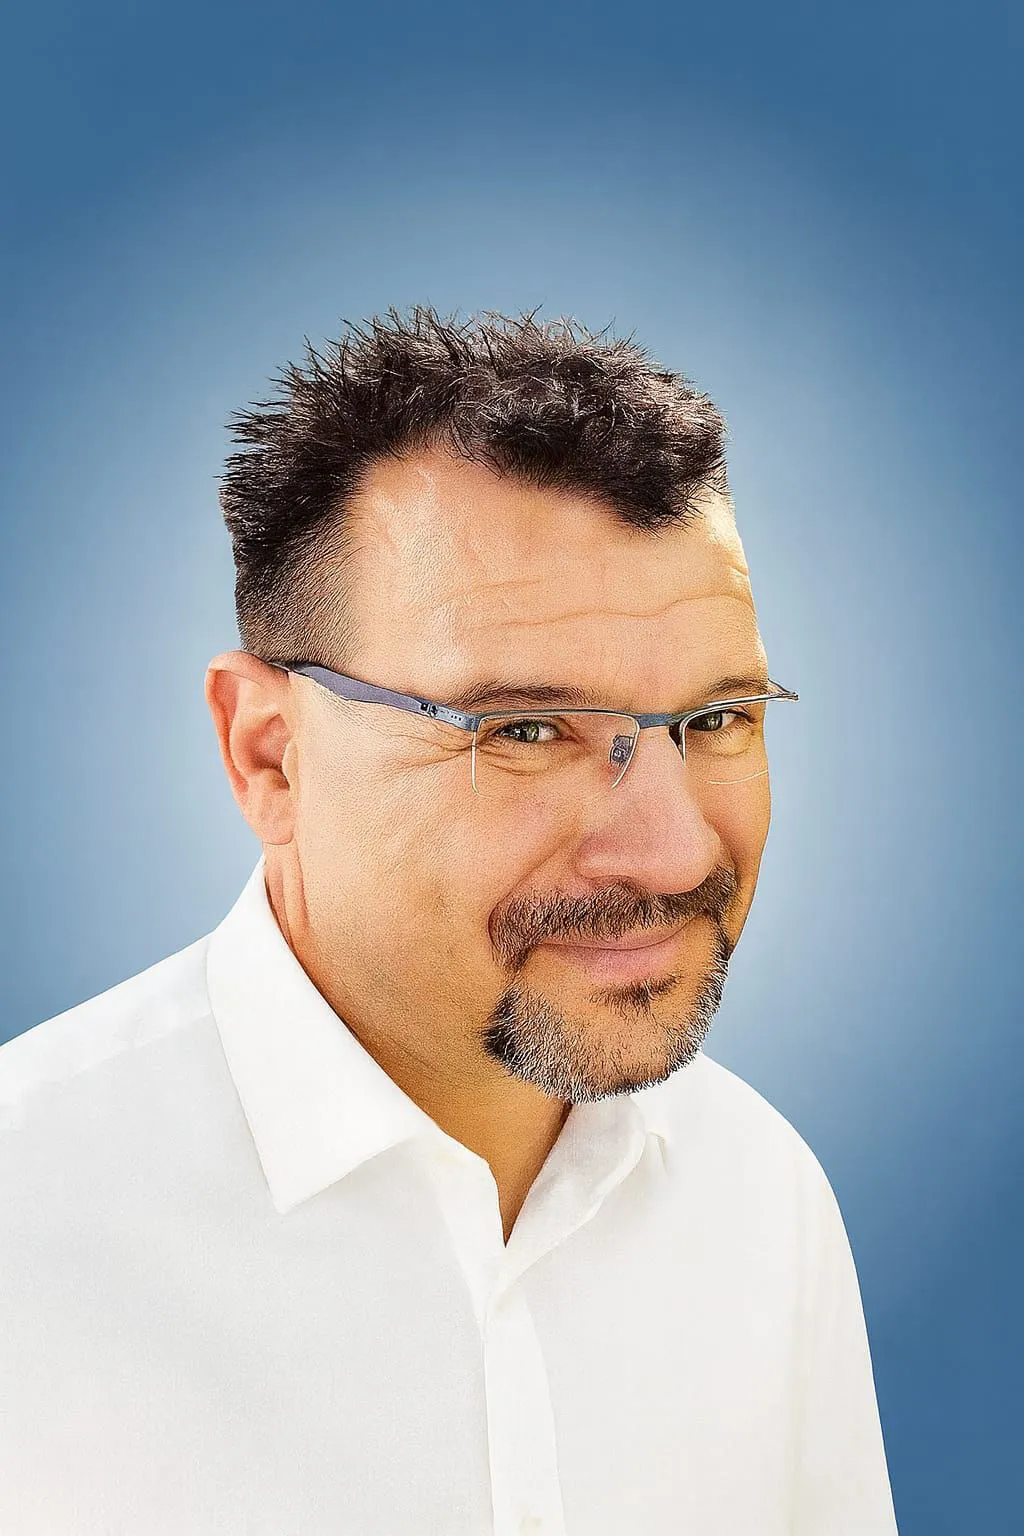
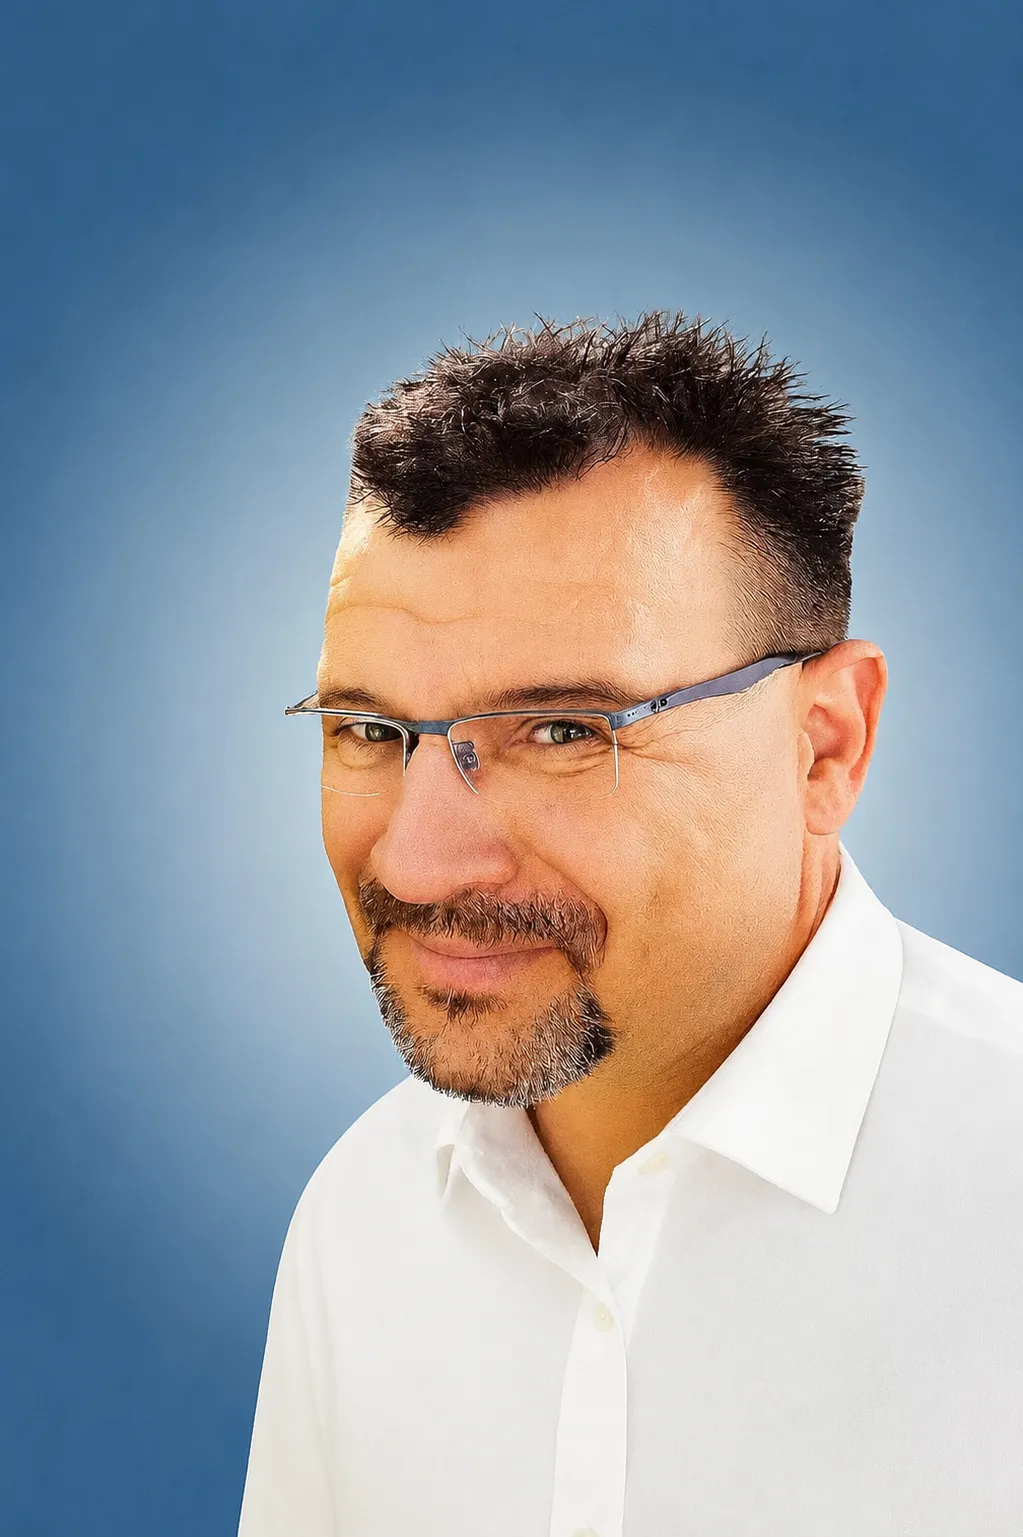
design: posunuti fotky Simony Pavelkove

diff --git a/src/components/Team.jsx b/src/components/Team.jsx
@@ -122,6 +122,9 @@ const Team = () => {
             phone: '+420 605 384 990',
             email: '[email redacted]',
             photo: '/Pavelkova - rodanova.webp',
+            objectPosition: 'center 40%',
+            transformDefault: 'scale(1.15) translateX(-3%) translateY(-3%)',
+            transformHover: 'scale(1.25) translateX(-3%) translateY(-3%)',
             desc: "Mým posláním je přinést vám klid a jistotu bezpečných financí pod jednou střechou. Zakládám si na kvalitě a lidském přístupu, díky kterému jsou vaše peníze smysluplně pod kontrolou."
         },
         {